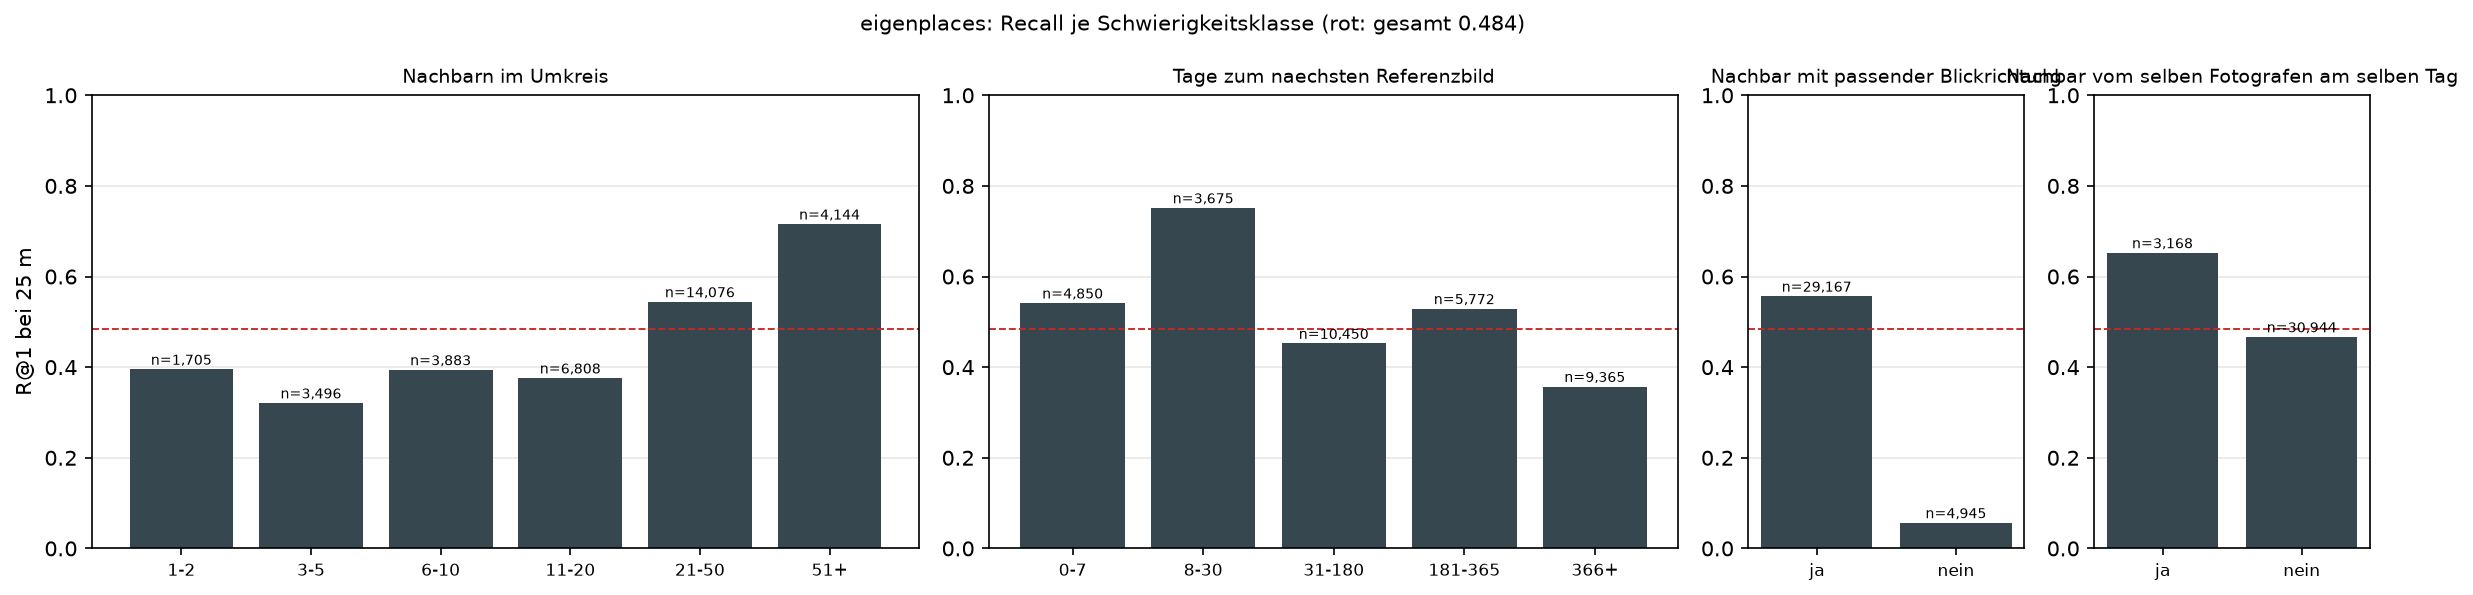
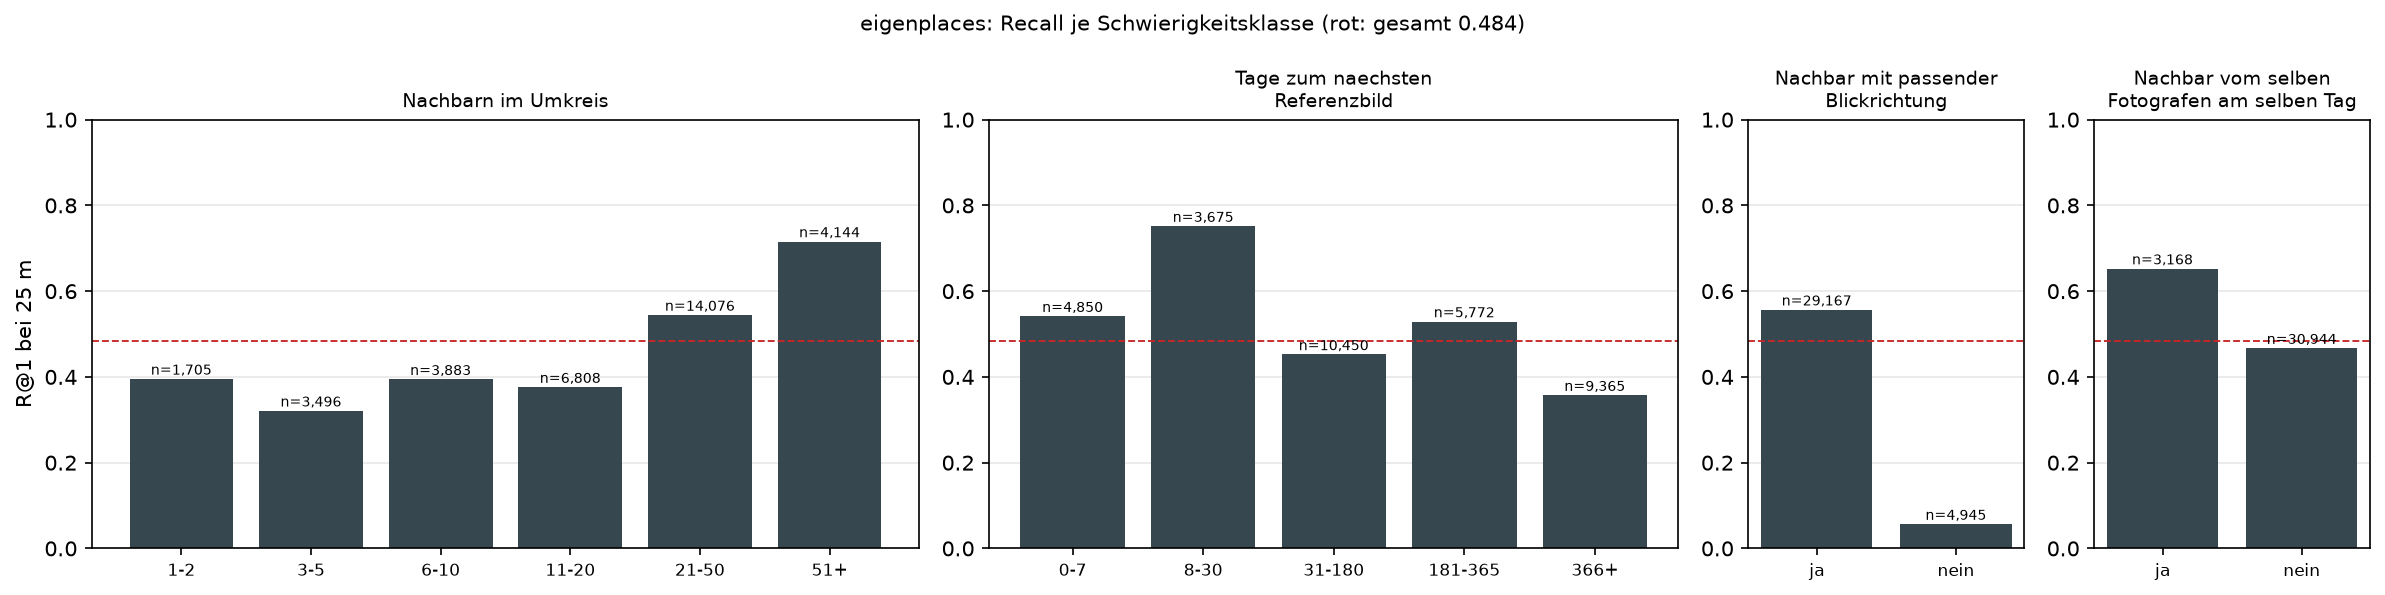
Demo ohne Autobahn, Zwillinge je Stadt vorbereitet
- Demo: Autobahnen auch ausserhalb der Stadtgrenze, mind. 100 m Abstand, bevorzugt Stadtstrasse

diff --git a/experiments/city_comparison.py b/experiments/city_comparison.py
@@ -15,6 +15,7 @@ Gelesen wird ausschliesslich Versioniertes:
     experiments/results/<stadt>/recall_by_difficulty_<encoder>.json
                                                       Herkunft des Top-1-Treffers
     results/<stadt>/evaluation/<encoder>_gv<k>.json    geometrische Verifikation
+    experiments/results/<stadt>/zwillinge.json         R@1 ohne Zwillingsfahrten
     experiments/results/city_coverage.json             Abdeckung, Panorama, Jahre
 
 Embeddings und Trefferlisten braucht es nicht. Das Skript laeuft also in
@@ -141,6 +142,16 @@ def _stadt(slug, method, schwelle):
             d["median_tage"] = h["median_tage"]
             d["n_korrekt"] = h["n_korrekt"]
 
+    # Zwillingsfahrten, falls zwillinge.py gelaufen ist: R@1, als waeren Kopien
+    # derselben Fahrt nie hochgeladen worden, und wie viele Anfragen eine haben.
+    zw = bo / "zwillinge.json"
+    if zw.exists():
+        e = json.loads(zw.read_text(encoding="utf-8")).get("encoder", {}).get(method, {})
+        for protokoll, feld in (("benchmark", "alle"), ("voll", "voll")):
+            if protokoll in e:
+                d[f"{feld}_ohne_zw"] = e[protokoll]["recall_ohne"]["1"]
+                d[f"zwilling_{feld}"] = e[protokoll]["anteil_anfragen_mit_zwilling"]
+
     for datei, feld in (("bootstrap_ci.json", "halbbreite"),
                         ("bootstrap_ci_fullref.json", "halbbreite_voll")):
         p = bo / datei
@@ -187,6 +198,36 @@ def _tabelle(zeilen):
               + _zelle(hard, "{:>+8.3f}", 8)
               + _zelle(z.get("voll"), "{:>7.3f}", 7)
               + _zelle(z.get("halbbreite"), "{:>8.3f}", 8))
+
+
+def _zwillingstabelle(zeilen):
+    """Benchmark und volle Referenz, je mit und ohne Zwillingsfahrten.
+
+    Sprung = volle Referenz minus Benchmark. Ist er vor allem wiedergefundene
+    Kopien, schrumpft er ohne Zwillinge dort am staerksten, wo es viele gibt."""
+    mit = [z for z in zeilen if z.get("voll_ohne_zw") is not None or z.get("alle_ohne_zw") is not None]
+    if not mit:
+        print("\nZwillingsfahrten: keine Stadt mit experiments/results/<stadt>/zwillinge.json.")
+        return
+    print("\nZwillingsfahrten (selbes Konto, <= 60 s): R@1 mit und ohne")
+    print(f"{'Stadt':<16}{'Zw':>7}{'Alle':>7}{'ohne':>7}{'Zw voll':>9}{'voll':>7}{'ohne':>7}"
+          f"{'Sprung':>8}{'ohne':>7}")
+    print("-" * 75)
+    for z in zeilen:
+        if z.get("voll") is not None and z.get("alle") is not None:
+            z["sprung"] = z["voll"] - z["alle"]
+        if z.get("voll_ohne_zw") is not None and z.get("alle_ohne_zw") is not None:
+            z["sprung_ohne_zw"] = z["voll_ohne_zw"] - z["alle_ohne_zw"]
+        print(f"{z['stadt']:<16}"
+              + _zelle(z.get("zwilling_alle"), "{:>7.1%}", 7)
+              + _zelle(z.get("alle"), "{:>7.3f}", 7)
+              + _zelle(z.get("alle_ohne_zw"), "{:>7.3f}", 7)
+              + _zelle(z.get("zwilling_voll"), "{:>9.1%}", 9)
+              + _zelle(z.get("voll"), "{:>7.3f}", 7)
+              + _zelle(z.get("voll_ohne_zw"), "{:>7.3f}", 7)
+              + _zelle(z.get("sprung"), "{:>+8.3f}", 8)
+              + _zelle(z.get("sprung_ohne_zw"), "{:>+7.3f}", 7))
+    print("  Zw = Anteil der Anfragen mit einem Zwilling im Umkreis; Sprung = voll - Alle.")
 
 
 def zerlegung(zeile):
@@ -458,6 +499,16 @@ def main():
     befunde["jahre_hard"] = _zusammenhang(
         "Anteil seit 2022 gegen Hard-Abschlag", zeilen, "seit_2022", "hard_abschlag",
         "Wenige alte Kampagnen -> Anfrage und Treffer aus derselben Befahrung -> der Filter greift hart.")
+
+    _zwillingstabelle(zeilen)
+    befunde["zwillinge_sprung"] = _zusammenhang(
+        "Zwillingsanteil (volle Referenz) gegen Sprung zur vollen Referenz", zeilen,
+        "zwilling_voll", "sprung",
+        "Erklaeren wiedergefundene Kopien, warum manche Staedte mit voller Referenz so viel gewinnen?")
+    befunde["zwillinge_sprung_ohne"] = _zusammenhang(
+        "Zwillingsanteil (volle Referenz) gegen Sprung OHNE Zwillinge", zeilen,
+        "zwilling_voll", "sprung_ohne_zw",
+        "Bleibt ein Zusammenhang, auch wenn die Kopien herausgenommen sind?")
 
     verifikation = _gv_tabelle(zeilen, args.method, schwelle)
 

diff --git a/experiments/zwillinge.py b/experiments/zwillinge.py
@@ -118,13 +118,21 @@ def main():
     fenster_ms = int(args.fenster_s * 1000)
     schwelle = str(int(float(CFG["vpr"]["uncertain_radius_m"])))
     raus = {"fenster_s": args.fenster_s, "schwelle_m": float(schwelle), "encoder": {}}
+    out = RESULTS / "zwillinge.json"
+    # Die Trefferlisten einer Stadt koennen auf zwei Rechnern liegen (Benchmark
+    # hier, volle Referenz dort). Ein zweiter Lauf ergaenzt dann, statt den
+    # ersten zu ueberschreiben -- solange Fenster und Schwelle dieselben sind.
+    if out.exists():
+        alt = json.loads(out.read_text(encoding="utf-8"))
+        if (alt.get("fenster_s"), alt.get("schwelle_m")) == (raus["fenster_s"], raus["schwelle_m"]):
+            raus["encoder"] = alt.get("encoder", {})
 
     print(f"Zwilling = selbes Konto, hoechstens {args.fenster_s:g} s Abstand; R@1 bei {schwelle} m\n")
     print(f"{'Encoder':<13}{'Protokoll':<11}{'Zwilling 25 m':>14}{'Top-1 Zwilling':>16}"
           f"{'R@1':>8}{'ohne':>8}{'Diff':>8}{'loesbar':>10}{'ohne':>9}")
     print("-" * 97)
     for method in [m.strip() for m in args.methods.split(",") if m.strip()]:
-        raus["encoder"][method] = {}
+        raus["encoder"].setdefault(method, {})
         for protokoll, splits in PROTOKOLLE.items():
             try:
                 query, referenz, indices, _ = load_retrieval(ROOT, CFG, method,
@@ -149,7 +157,6 @@ def main():
             raus["encoder"][method][protokoll] = z
 
     RESULTS.mkdir(parents=True, exist_ok=True)
-    out = RESULTS / "zwillinge.json"
     out.write_text(json.dumps(raus, indent=2), encoding="utf-8")
     print(f"\n-> {out}")
 

diff --git a/experiments/recall_by_difficulty.py b/experiments/recall_by_difficulty.py
@@ -25,6 +25,7 @@ Ergebnis: experiments/results/<stadt>/recall_by_difficulty_<name>.{json,png}
 
 import argparse
 import json
+import textwrap
 
 import numpy as np
 import pandas as pd
@@ -209,7 +210,8 @@ def main():
         ax.axhline(gesamt, color="#c62828", linewidth=0.9, linestyle="--")
         ax.set_xticks(range(len(labels)))
         ax.set_xticklabels(labels, fontsize=8)
-        ax.set_title(t["merkmal"], fontsize=9)
+        # Die schmalen Felder rechts: Titel umbrechen, sonst laufen sie ineinander.
+        ax.set_title(textwrap.fill(t["merkmal"], 24), fontsize=9)
         ax.set_ylim(0, 1)
         ax.grid(axis="y", alpha=0.3)
         ax.set_axisbelow(True)

diff --git a/README.md b/README.md
@@ -80,20 +80,19 @@ MegaLoc; grün = höchstens 25 m vom echten Ort. Bilder von
 
 Fünf Encoder, dieselben 53.414 Anfragen aus Osnabrück, R@1 bei 25 m:
 
-| Encoder | für Orte trainiert | Dim | volle Referenz | volle Referenz, Hard | Benchmark |
-|---|:---:|---:|---:|---:|---:|
-| **MegaLoc** | ja | 8448 | **0.798** <sub>[0.739, 0.848]</sub> | **0.523** | **0.568** <sub>[0.475, 0.666]</sub> |
-| **EigenPlaces** | ja | 2048 | 0.701 <sub>[0.630, 0.765]</sub> | 0.427 | 0.484 <sub>[0.405, 0.574]</sub> |
-| MixVPR | ja | 4096 | 0.653 <sub>[0.575, 0.724]</sub> | 0.373 | 0.426 <sub>[0.354, 0.509]</sub> |
-| AnyLoc | nein | 4096 | 0.435 <sub>[0.343, 0.533]</sub> | 0.148 | 0.204 <sub>[0.153, 0.265]</sub> |
-| CLIP | nein | 512 | 0.232 <sub>[0.144, 0.349]</sub> | 0.024 | 0.073 <sub>[0.044, 0.108]</sub> |
-| *Raten* | | | *0.0005* | | *0.0006* |
+| Encoder | für Orte trainiert | Dim | volle Referenz | voll, ohne Zwillinge | voll, Hard | Benchmark |
+|---|:---:|---:|---:|---:|---:|---:|
+| **MegaLoc** | ja | 8448 | **0.798** <sub>[0.739, 0.848]</sub> | **0.690** | **0.523** | **0.568** <sub>[0.475, 0.666]</sub> |
+| **EigenPlaces** | ja | 2048 | 0.701 <sub>[0.630, 0.765]</sub> | 0.593 | 0.427 | 0.484 <sub>[0.405, 0.574]</sub> |
+| MixVPR | ja | 4096 | 0.653 <sub>[0.575, 0.724]</sub> | — | 0.373 | 0.426 <sub>[0.354, 0.509]</sub> |
+| AnyLoc | nein | 4096 | 0.435 <sub>[0.343, 0.533]</sub> | — | 0.148 | 0.204 <sub>[0.153, 0.265]</sub> |
+| CLIP | nein | 512 | 0.232 <sub>[0.144, 0.349]</sub> | — | 0.024 | 0.073 <sub>[0.044, 0.108]</sub> |
+| *Raten* | | | *0.0005* | | | *0.0006* |
 
-<sub>Klein dahinter das 95-%-Intervall. „Hard" zählt nur Treffer von einem
-anderen Konto oder mit mehr als 180 Tagen Abstand — warum diese Spalte
-wichtig ist, steht unter [Zwillingsfahrten](#zwillingsfahrten). Ohne doppelt
-hochgeladene Fahrten liegt die volle Referenz bei **0.690** (MegaLoc) und 0.593
-(EigenPlaces). Varianten mit
+<sub>Klein dahinter das 95-%-Intervall. Die drei „voll"-Spalten nutzen dieselbe Referenz und zählen
+verschieden streng: alle Treffer; ohne doppelt hochgeladene Fahrten (gemessen für die zwei stärksten
+Encoder); Hard = nur Treffer von einem anderen Konto oder mit mehr als 180 Tagen Abstand. Warum das
+nötig ist: [Zwillingsfahrten](#zwillingsfahrten). Varianten mit
 PCA, Whitening, Adapter und Nachbearbeitung: [Benchmark-Protokoll](#benchmark-protokoll).</sub>
 
 ![Recall@1 bei 25 m je Variante, mit 95-%-Intervall](results/osnabrueck/figures/evaluation/vergleich_r1_25m.png)
@@ -456,11 +455,11 @@ gibt alles maschinenlesbar aus. Dasselbe mit Bildern und Karte:
   <img src="results/osnabrueck/figures/demo/megaloc_karte_fehlschlag.png" width="49%" alt="Treffer auf dem Straßennetz: Fehlgriff">
 </p>
 
-<sub>Oben eine gescheiterte Anfrage (rot = mehr als 25 m daneben). Unten
-Treffer auf dem Straßennetz: links zerfallen sie in zwei Gruppen, rechts
-liegen sie geschlossen am falschen Ort — der Fall, den keine Mittelung rettet.
-Als Beispiele gelten nur Treffer von einem anderen Konto, und Autobahnbilder
-werden übersprungen.</sub>
+<sub>Oben eine gescheiterte Anfrage (rot = mehr als 25 m daneben), obwohl es
+Referenzbilder in der Nähe gibt. Unten die Treffer auf dem Straßennetz: links
+liegt der beste Treffer richtig, andere über 200 m weit weg — zwei Gruppen; rechts liegt
+kein Treffer näher als 200 m. Als Beispiele gelten nur Treffer von einem anderen
+Konto, und Anfragen an der Autobahn werden übersprungen.</sub>
 
 Dasselbe Anfragebild durch alle fünf Encoder:
 
@@ -757,16 +756,16 @@ Mapillary-Metadaten ausgewählt — bevor ein einziges Bild geladen war
 
 `train` stufenweise zur Referenz dazugenommen:
 
-| train dazu | Referenzbilder | lösbar | MegaLoc, 512 gewhitent | EigenPlaces |
+| train dazu | Referenzbilder | lösbar | MegaLoc | EigenPlaces |
 |---:|---:|---:|---:|---:|
-| 0 % | 48.321 | 63,9 % | 0.541 | 0.484 |
-| 25 % | 107.449 | 78,4 % | 0.615 | 0.545 |
-| 50 % | 160.981 | 84,9 % | 0.670 | 0.595 |
-| 75 % | 222.300 | 88,4 % | 0.754 | 0.672 |
-| 100 % | 279.453 | 90,2 % | 0.778 | 0.701 |
+| 0 % | 48.321 | 63,9 % | 0.568 | 0.484 |
+| 25 % | 107.449 | 78,4 % | 0.636 | 0.545 |
+| 50 % | 160.981 | 84,9 % | 0.689 | 0.595 |
+| 75 % | 222.300 | 88,4 % | 0.774 | 0.672 |
+| 100 % | 279.453 | 90,2 % | 0.798 | 0.701 |
 
-<sub>Auszug aus `experiments/results/osnabrueck/database_density_<encoder>.json`. MegaLoc auf voller Breite
-steigt von 0.568 auf 0.798; die Zwischenstufen zeigt die linke Abbildung.</sub>
+<sub>R@1 bei 25 m unter den lösbaren Anfragen. Auszug aus
+`experiments/results/osnabrueck/database_density_<encoder>.json`.</sub>
 
 - Mehr Anfragen werden lösbar, **und** der Recall unter ihnen steigt — obwohl die neu lösbaren die schwereren sind.
 - Ein Teil des Anstiegs sind [Zwillinge](#zwillingsfahrten) aus `train`: ohne sie steigt MegaLoc von 0.550 auf 0.690 statt von 0.568 auf 0.798.
@@ -811,7 +810,7 @@ Nachbar vom selben Konto am selben Tag
 - **Blickrichtung trennt am schärfsten:** ohne Nachbarn in derselben Richtung 7 %, mit einem 65 %.
 - **Zeit und Nachbarzahl wirken schwächer und nicht gleichmäßig:** 8–30 Tage Abstand ist die beste Klasse,
   0–7 Tage nur Mittelfeld; bei den Nachbarn hebt sich nur 51+ ab.
-- **Ein Nachbar vom selben Konto am selben Tag hilft** (0.690 gegen 0.556) — derselbe Effekt wie die Zwillinge.
+- **Ein Nachbar vom selben Konto am selben Tag hilft:** R@1 0.690 gegen 0.556 ohne einen solchen — derselbe Effekt wie die Zwillinge, die in dieser Klasse stecken.
 - Dieselbe Zerlegung für EigenPlaces zeigt die zweite Abbildung. Klassen ohne Intervall; Unterschiede unter etwa 0.1 nicht deuten.
   Details: [Schwierigkeit je Anfrage](experiments/README.md#schwierigkeit-je-anfrage--recall_by_difficultypy).
 
@@ -825,7 +824,7 @@ Nachbar vom selben Konto am selben Tag
 </p>
 
 - **Faktor 12 beim selben Encoder:** MegaLoc 0.07 in Sutthausen, 0.83 in Atter.
-- **Die Karte zeigt die Daten, nicht den Encoder:** EigenPlaces (512 gewhitent) ordnet die Stadtteile praktisch gleich (Spearman 0.96).
+- **Die Karte zeigt die Daten, nicht den Encoder:** EigenPlaces (zweite Karte) ordnet die Stadtteile praktisch gleich (Spearman 0.96).
 - **Bilder je km² erklären es nicht** (ρ = 0.27): die Innenstadt hat die dichteste Referenz und nur 38 % lösbare Anfragen.
 - **Gründe je Stadtteil:** Haste — kaum passende Blickrichtung; Hellern — fast ein Jahr Abstand zur Referenz; Sutthausen — eine einzige
   Fahrt, die 208 von 414 Anfragen ins 4 km entfernte Hellern legt.

diff --git a/experiments/README.md b/experiments/README.md
@@ -221,7 +221,7 @@ eigenplaces  voll                28.2%           19.4%   0.701   0.593  -0.108  
 ```
 
 <sub>Wörtliche Ausgabe; gespeichert in `results/osnabrueck/zwillinge.json`. „Top-1 Zwilling" =
-Anteil der lösbaren Anfragen, deren erster Treffer eine Kopie ist. „loesbar ohne" = lösbar auch
+Anteil aller Anfragen, deren erster Treffer eine Kopie ist. „loesbar ohne" = lösbar auch
 ohne Kopie. Die Standardspalte trifft die Zahlen aus 07. Ohne Intervall.</sub>
 
 - **Benchmark:** −0.02 bei beiden Encodern. Die Vergleiche dort halten.
@@ -250,8 +250,8 @@ echte Wiederholungsfahrten:
 | Städtevergleich, Spalte „voll" | ja | wie oben, je Stadt 6,0 % bis 35,8 % |
 | Hard-Abschlag je Stadt | erklärt mit | Zwillinge sind ein Teil von d und von 1 − r |
 | Adapter-Auswahl auf val | ja, anders herum | val hat praktisch keine Zwillinge (0,2 % der lösbaren val-Anfragen, test 5,3 %) — ein Grund, warum val so viel schwerer ist als test |
-| Konfidenz (cos) | vermutlich | Zwillinge haben cos um 0.99 und heben die Präzision bei hohem cos; wie stark, ist nicht gemessen |
-| Geometrische Verifikation | vermutlich | Zwillinge haben die größte Bildüberlappung und rücken nach vorn; der Gewinn bei 5 und 10 m kann teils daher kommen |
+| Konfidenz (cos) | wenig | gemessen im Benchmark, dort ist bei 4,1 % der Anfragen der erste Treffer eine Kopie (cos um 0.99). Lägen alle über cos 0.30 und nähme man sie heraus, fiele „82 % richtig" im ungünstigsten Fall auf 78 % |
+| Geometrische Verifikation | wenig | gemessen im Benchmark (4,1 % Kopien auf Platz 1); Kopien haben die größte Bildüberlappung, ein Teil des Gewinns bei 5 und 10 m kann daher kommen |
 | Fahrt als Pfad | kaum | sortiert nur um, Zwillinge bleiben, wo sie sind |
 | „Selbes Konto, selber Tag" in der Schwierigkeit | ja | die Klasse enthält die Zwillinge |
 | Beispiele in der Demo | behoben | gezeigt werden nur Treffer von einem anderen Konto |
@@ -467,16 +467,17 @@ python experiments/database_density.py
   <img src="results/osnabrueck/database_density_eigenplaces.png" width="49%" alt="R@1 gegen Referenzdichte, EigenPlaces">
 </p>
 
-| train dazu | Referenzbilder | lösbar | MegaLoc, 512 gewhitent | EigenPlaces | EigenPlaces, 512 gewhitent |
+| train dazu | Referenzbilder | lösbar | MegaLoc | EigenPlaces | MegaLoc, 512 gewhitent |
 |---:|---:|---:|---:|---:|---:|
-| 0 % | 48.321 | 63,9 % | 0.541 | 0.484 | 0.507 |
-| 25 % | 107.449 | 78,4 % | 0.615 | 0.545 | 0.568 |
-| 50 % | 160.981 | 84,9 % | 0.670 | 0.595 | 0.615 |
-| 75 % | 222.300 | 88,4 % | 0.754 | 0.672 | 0.688 |
-| 100 % | 279.453 | 90,2 % | 0.778 | 0.701 | 0.715 |
+| 0 % | 48.321 | 63,9 % | 0.568 | 0.484 | 0.541 |
+| 25 % | 107.449 | 78,4 % | 0.636 | 0.545 | 0.615 |
+| 50 % | 160.981 | 84,9 % | 0.689 | 0.595 | 0.670 |
+| 75 % | 222.300 | 88,4 % | 0.774 | 0.672 | 0.754 |
+| 100 % | 279.453 | 90,2 % | 0.798 | 0.701 | 0.778 |
 
-<sub>Aus `results/osnabrueck/database_density_<encoder>.json`. Die letzte Stufe ist die volle Referenz.
-MegaLoc auf voller Breite steigt von 0.568 auf 0.798; die Zwischenstufen zeigt die linke Abbildung.</sub>
+<sub>R@1 bei 25 m unter den lösbaren Anfragen, aus `results/osnabrueck/database_density_<encoder>.json`.
+Die letzte Stufe ist die volle Referenz. Die gewhitete Spalte zeigt: Verkleinern verschiebt die Kurve, die Form bleibt.
+MegaLoc rechnet mit zwei Referenzbildern weniger (279.451); an den Zahlen ändert das nichts.</sub>
 
 - Die neu lösbaren Anfragen sind die schwereren — und der Recall steigt trotzdem.
 - Gewonnen werden nicht nur Nachbarn, sondern auch passende Blickrichtungen und Zeitpunkte.
@@ -588,7 +589,7 @@ python experiments/recall_by_district.py
 
 - **Faktor 12 beim selben Encoder.** Der Stadtwert 0.568 ist ein Mittel über sehr verschiedene Viertel.
 - **Dichte erklärt es nicht:** ρ = 0.27 (p = 0.27). Die Innenstadt hat die dichteste Referenz und nur 38 % lösbare Anfragen.
-- **Die Karte zeigt die Daten, nicht den Encoder:** EigenPlaces (512 gewhitent) ordnet die Stadtteile praktisch gleich (Spearman 0.96).
+- **Die Karte zeigt die Daten, nicht den Encoder:** EigenPlaces (zweite Karte) ordnet die Stadtteile praktisch gleich (Spearman 0.96).
 - **Gründe in den Aufnahmen:**
   - *Haste* (0.23): nur 29 % der lösbaren Anfragen haben einen Nachbarn in derselben Blickrichtung; Median drei Jahre Abstand.
   - *Hellern* (0.21): Median 338 Tage Abstand — eine andere Jahreszeit.
@@ -878,7 +879,8 @@ python experiments/rejection_curve.py
 Die Verkettung EigenPlaces + MegaLoc liegt gleichauf (0.695 bei 80 %, Fläche 0.790).</sub>
 
 - **Faustregel MegaLoc:** cos ≥ 0.30 → 82 % richtig (37 % der lösbaren Anfragen beantwortet); cos ≥ 0.20 → 75 % (69 %).
-- Die Marge ist das schlechteste Maß — anders als bei Klassifikatoren üblich.
+- Die Marge (Abstand zu Platz 2) bringt weniger als der rohe cos — anders als bei Klassifikatoren üblich.
+- **EigenPlaces** zeigt dieselbe Reihenfolge (zweite Abbildung): cos 0.568 bei 80 %, ohne Ablehnung 0.484.
 - `locate.py` und die Demo melden deshalb cos als Konfidenz.
 
 **Grenzen.** Im Betrieb kennt das System die Referenz nicht. Unlösbare Anfragen erkennt cos nur zum Teil

diff --git a/results/osnabrueck/figures/demo/QUELLEN.md b/results/osnabrueck/figures/demo/QUELLEN.md
@@ -10,11 +10,11 @@ Erzeugt von `src/quellen.py` beim Speichern der Abbildung — nicht von Hand än
 
 ## megaloc_erfolg.png
 
-[818428397929445](https://www.mapillary.com/app/?pKey=818428397929445) · [1224292126099756](https://www.mapillary.com/app/?pKey=1224292126099756) · [765892132666297](https://www.mapillary.com/app/?pKey=765892132666297) · [543473665424376](https://www.mapillary.com/app/?pKey=543473665424376) · [1276101577443446](https://www.mapillary.com/app/?pKey=1276101577443446) · [1934863220679282](https://www.mapillary.com/app/?pKey=1934863220679282)
+[482018620622883](https://www.mapillary.com/app/?pKey=482018620622883) · [1484097658653286](https://www.mapillary.com/app/?pKey=1484097658653286) · [383911053074699](https://www.mapillary.com/app/?pKey=383911053074699) · [1163762274368869](https://www.mapillary.com/app/?pKey=1163762274368869) · [154465030500261](https://www.mapillary.com/app/?pKey=154465030500261) · [705607447382687](https://www.mapillary.com/app/?pKey=705607447382687)
 
 ## megaloc_fehlschlag.png
 
-[175474135068588](https://www.mapillary.com/app/?pKey=175474135068588) · [194560133013234](https://www.mapillary.com/app/?pKey=194560133013234) · [1484651669039491](https://www.mapillary.com/app/?pKey=1484651669039491) · [9054996431242373](https://www.mapillary.com/app/?pKey=9054996431242373) · [209563175109463](https://www.mapillary.com/app/?pKey=209563175109463) · [548156383669583](https://www.mapillary.com/app/?pKey=548156383669583)
+[282169104151101](https://www.mapillary.com/app/?pKey=282169104151101) · [719405463320119](https://www.mapillary.com/app/?pKey=719405463320119) · [749725473548466](https://www.mapillary.com/app/?pKey=749725473548466) · [1419149995310458](https://www.mapillary.com/app/?pKey=1419149995310458) · [2133867980140041](https://www.mapillary.com/app/?pKey=2133867980140041) · [267758615625290](https://www.mapillary.com/app/?pKey=267758615625290)
 
 ## megaloc_zwei_gruppen.png
 
@@ -22,4 +22,4 @@ Erzeugt von `src/quellen.py` beim Speichern der Abbildung — nicht von Hand än
 
 ## vergleich_encoder.png
 
-[818428397929445](https://www.mapillary.com/app/?pKey=818428397929445) · [822513733839226](https://www.mapillary.com/app/?pKey=822513733839226) · [1142586807391743](https://www.mapillary.com/app/?pKey=1142586807391743) · [1256211662982881](https://www.mapillary.com/app/?pKey=1256211662982881) · [1483362049547647](https://www.mapillary.com/app/?pKey=1483362049547647) · [1907911393400738](https://www.mapillary.com/app/?pKey=1907911393400738) · [2026975584734445](https://www.mapillary.com/app/?pKey=2026975584734445) · [1489345455691624](https://www.mapillary.com/app/?pKey=1489345455691624) · [764347446086061](https://www.mapillary.com/app/?pKey=764347446086061) · [1944457009461099](https://www.mapillary.com/app/?pKey=1944457009461099) · [610589525423358](https://www.mapillary.com/app/?pKey=610589525423358) · [1276101577443446](https://www.mapillary.com/app/?pKey=1276101577443446) · [1224292126099756](https://www.mapillary.com/app/?pKey=1224292126099756) · [765892132666297](https://www.mapillary.com/app/?pKey=765892132666297) · [1934863220679282](https://www.mapillary.com/app/?pKey=1934863220679282) · [543473665424376](https://www.mapillary.com/app/?pKey=543473665424376)
+[482018620622883](https://www.mapillary.com/app/?pKey=482018620622883) · [1484097658653286](https://www.mapillary.com/app/?pKey=1484097658653286) · [383911053074699](https://www.mapillary.com/app/?pKey=383911053074699) · [1163762274368869](https://www.mapillary.com/app/?pKey=1163762274368869) · [154465030500261](https://www.mapillary.com/app/?pKey=154465030500261) · [705607447382687](https://www.mapillary.com/app/?pKey=705607447382687) · [819268002606445](https://www.mapillary.com/app/?pKey=819268002606445) · [2248542751982073](https://www.mapillary.com/app/?pKey=2248542751982073) · [153233567047968](https://www.mapillary.com/app/?pKey=153233567047968) · [5771607489528519](https://www.mapillary.com/app/?pKey=5771607489528519) · [626305051797377](https://www.mapillary.com/app/?pKey=626305051797377) · [665950268431827](https://www.mapillary.com/app/?pKey=665950268431827) · [682220953259727](https://www.mapillary.com/app/?pKey=682220953259727) · [805144927406129](https://www.mapillary.com/app/?pKey=805144927406129) · [1092972574722488](https://www.mapillary.com/app/?pKey=1092972574722488) · [2025241934351389](https://www.mapillary.com/app/?pKey=2025241934351389) · [500758005294143](https://www.mapillary.com/app/?pKey=500758005294143) · [694974811963429](https://www.mapillary.com/app/?pKey=694974811963429) · [1749506142079271](https://www.mapillary.com/app/?pKey=1749506142079271) · [1597059180746744](https://www.mapillary.com/app/?pKey=1597059180746744) · [434234838791003](https://www.mapillary.com/app/?pKey=434234838791003) · [773398127291882](https://www.mapillary.com/app/?pKey=773398127291882)
